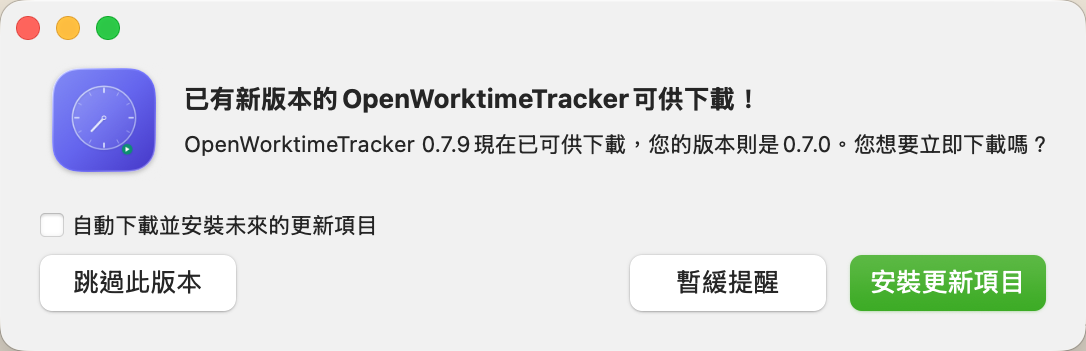
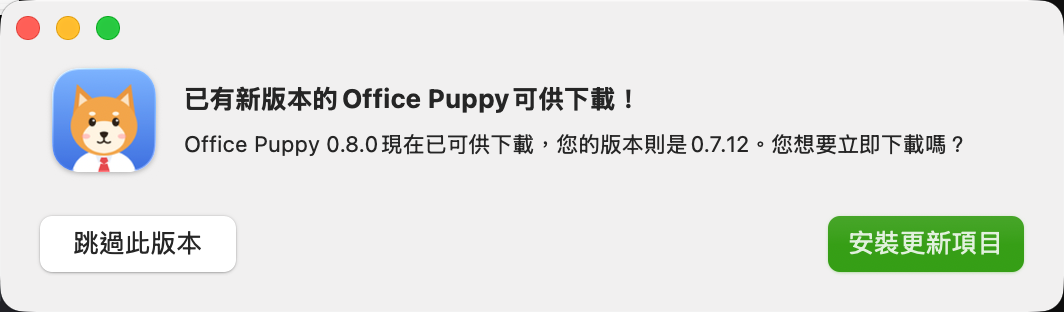
說明頁的更新視窗截圖換成 Office Puppy（新名字、新圖示）

diff --git a/README.md b/README.md
@@ -55,10 +55,10 @@
 App 每天會連到 GitHub 看一次有沒有新版本。有的話會跳出這個視窗：
 
 <p align="center">
-  <img src="docs/public/screenshots/zh-update-dialog.png" width="540" alt="更新視窗：已有新版本可供下載，按鈕有跳過此版本、暫緩提醒、安裝更新項目">
+  <img src="docs/public/screenshots/zh-update-dialog.png" width="540" alt="Office Puppy 的更新視窗：已有新版本可供下載，按鈕有跳過此版本、安裝更新項目">
 </p>
 
-按「安裝更新項目」，下載好再按「安裝並重新啟動」，它就自己換好、重新打開，以前的紀錄和設定都會留著。勾「自動下載並安裝未來的更新項目」，以後就在背景下載好，下次 App 關掉或電腦重開時自動換上。
+按「安裝更新項目」，下載好再按「安裝並重新啟動」，它就自己換好、重新打開，以前的紀錄和設定都會留著。每天自動檢查跳出來的視窗，下面還會多一個「自動下載並安裝未來的更新項目」，勾了以後就在背景下載好，下次 App 關掉或電腦重開時自動換上。
 
 - 想馬上查：點開右上角 → 按「⋯」→「檢查更新…」
 - 不想自動檢查：「設定…」→「資料」分頁最下面關掉
